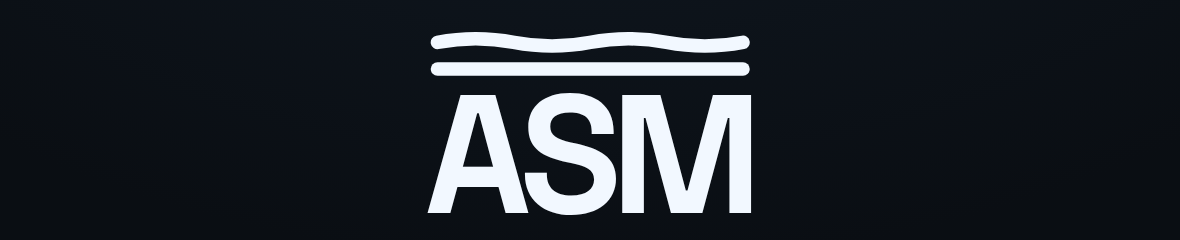
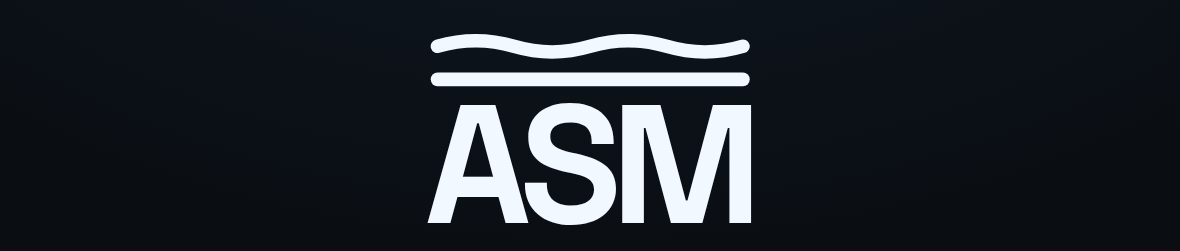
design(grade-lab): bigger wave amplitude, ink-gap stacking

diff --git a/design/grade-lab/lockup.js b/design/grade-lab/lockup.js
@@ -11,25 +11,25 @@
  *   - 横线 = 已经落定 → 落在基线以下（stack）。
  */
 
-// adv = 这一行到下一行的距离（cap height 的倍数）。
-// 波浪之间收得比“等号”略紧；等号两横比波浪更紧，像真的 ≅。
+// gapBelow = 这一行与它下面一行的**墨迹**间隙（cap height 的倍数）。
+// 量墨迹而不是量中心线：波浪加振幅时，它和下面那条线/字母的视觉间距才不会变。
 export const SYMBOLS = {
   APX: [
-    { kind: 'wave', adv: 0.245 },
+    { kind: 'wave', gapBelow: 0.1 },
     { kind: 'wave' },
   ],
   ASM: [
-    { kind: 'wave', adv: 0.225 },
+    { kind: 'wave', gapBelow: 0.07 },
     { kind: 'line' },
   ],
   CGR: [
-    { kind: 'wave', adv: 0.225 },
-    { kind: 'line', adv: 0.15 },
+    { kind: 'wave', gapBelow: 0.07 },
+    { kind: 'line', gapBelow: 0.035 },
     { kind: 'line' },
   ],
   IDN: [
-    { kind: 'line', adv: 0.15 },
-    { kind: 'line', adv: 0.15 },
+    { kind: 'line', gapBelow: 0.035 },
+    { kind: 'line', gapBelow: 0.035 },
     { kind: 'line' },
   ],
 };
@@ -78,8 +78,8 @@ export function renderLockup(host, opts) {
 
   // —— 2. 从字体里取网格 ——
   const stem = cap * 0.115; // 和 800 字重的字干接近
-  const amp = cap * 0.062; // 波纹振幅
-  const gap = cap * 0.16; // 符号的墨迹到字的距离
+  const amp = cap * 0.095; // 波纹振幅（够大才读得出是波浪，不是装饰线）
+  const gapToWord = cap * 0.16; // 最下面一行墨迹到 cap line 的距离
   const inset = stem * 0.75; // 视觉宽度：记号比字略窄，A / X 这类斜边才不会被记号压住
 
   const inkLeft = left + inset;
@@ -97,31 +97,31 @@ export function renderLockup(host, opts) {
   };
   const linePath = (y) => `M ${inkLeft} ${y} L ${inkRight} ${y}`;
 
-  // 每一行到下一行的距离，以及每一行的墨迹半高（gap 量的是墨迹到墨迹，不是中心线）
-  const advances = rows.map((row) => cap * (row.adv ?? 0.15));
+  // 每一行的墨迹半高
   const half = rows.map((row) => (row.kind === 'wave' ? amp + stem / 2 : stem / 2));
-  const stackHeight = advances.slice(0, -1).reduce((sum, v) => sum + v, 0);
+  const gapBelow = rows.map((row) => cap * (row.gapBelow ?? 0.05));
 
-  if (variant === 'above') {
-    // 整枚记号压在字的上方：最后一行的底边离 cap line 一个 gap，前面的行往上叠。
-    let y = top - gap - half[rows.length - 1] - stackHeight;
-    rows.forEach((row, index) => {
-      paths.push(row.kind === 'wave' ? wavePath(y) : linePath(y));
-      y += advances[index];
-    });
-  } else if (variant === 'below' || variant === 'stack') {
-    let y = baseline + gap + half[0];
-    rows.forEach((row, index) => {
-      paths.push(row.kind === 'wave' ? wavePath(y) : linePath(y));
-      y += advances[index];
-    });
-  } else {
-    // behind：行均匀铺在字高区间，作为背景层（对比用）
-    rows.forEach((row, index) => {
-      const y = top + (cap * index) / Math.max(1, rows.length - 1);
-      paths.push(row.kind === 'wave' ? wavePath(y) : linePath(y));
-    });
+  // 从下往上：最下面一行离字 gapToWord，其余按墨迹间隙叠上去。
+  const stackAbove = [];
+  stackAbove[rows.length - 1] = top - gapToWord - half[rows.length - 1];
+  for (let i = rows.length - 2; i >= 0; i -= 1) {
+    stackAbove[i] = stackAbove[i + 1] - half[i + 1] - gapBelow[i] - half[i];
   }
+
+  // 镜像：最上面一行离基线 gapToWord，其余往下叠。
+  const stackBelow = [];
+  stackBelow[0] = baseline + gapToWord + half[0];
+  for (let i = 1; i < rows.length; i += 1) {
+    stackBelow[i] = stackBelow[i - 1] + half[i - 1] + gapBelow[i - 1] + half[i];
+  }
+
+  const stacked = variant === 'above' || variant === 'below' || variant === 'stack';
+  const centers = variant === 'above' ? stackAbove : stackBelow;
+
+  rows.forEach((row, index) => {
+    const y = stacked ? centers[index] : top + (cap * index) / Math.max(1, rows.length - 1);
+    paths.push(row.kind === 'wave' ? wavePath(y) : linePath(y));
+  });
 
   for (const d of paths) {
     const path = document.createElementNS(SVG_NS, 'path');
@@ -135,11 +135,14 @@ export function renderLockup(host, opts) {
 
   // —— 3. 视口 ——
   const pad = cap * 0.24;
-  const above = variant === 'above';
-  const below = variant === 'below' || variant === 'stack';
-  const inkTop = rows.length ? top - gap - half[rows.length - 1] - stackHeight - half[0] : top;
-  const minY = above ? inkTop - pad : top - pad * 0.6;
-  const maxY = below ? baseline + gap + stackHeight + half[0] + half[rows.length - 1] + pad : baseline + pad;
+  const minY =
+    variant === 'above' ? stackAbove[0] - half[0] - pad : top - pad * 0.6;
+  const maxY =
+    variant === 'above'
+      ? baseline + pad
+      : variant === 'behind'
+        ? baseline + pad
+        : stackBelow[rows.length - 1] + half[rows.length - 1] + pad;
   const minX = left - pad;
   const maxX = right + pad;
   svg.setAttribute('viewBox', `${minX} ${minY} ${maxX - minX} ${maxY - minY}`);
@@ -159,6 +162,9 @@ export function renderLockup(host, opts) {
     };
     guide(top, 'rgba(156,200,255,.45)');
     guide(baseline, 'rgba(156,200,255,.45)');
-    guide(baseline + gap, 'rgba(198,242,78,.35)');
+    guide(
+      variant === 'above' ? top - gapToWord : baseline + gapToWord,
+      'rgba(198,242,78,.35)',
+    );
   }
 }

diff --git a/prototype/FUTURE.md b/prototype/FUTURE.md
@@ -68,7 +68,8 @@
   样张在 [`../design/grade-lab/`](../design/grade-lab/)：每个符号单独一页，符号是自绘 SVG，
   波纹逐级消失（`≈` 两波 → `≃` 一波一横 → `≅` 一波两横 → `≡` 三横），不依赖字体覆盖。
 - **锁版规则**：符号与字同宽（取字母实测包围盒，再收半个描边做视觉修正）、描边 = 字干
-  （cap height 的 11.5%）、记号底边离 cap line 0.16 cap（量墨迹，不量中心线）；
+  （cap height 的 11.5%）、记号底边离 cap line 0.16 cap；行距一律量**墨迹间隙**
+  （波浪间 10%、波浪到横线 5%、横线间 3.5%），波纹振幅 9.5% cap。
   默认摆法是「整枚记号压在字上方」。
 - 恰好 100% 记为 **`IDN+`**（`IDN` 覆盖 99–100%，`IDN+` 只在满分时出现）。
 - 字母词表待定（当前提案 `APX / ASM / CGR / IDN`）。

diff --git a/design/grade-lab/README.md b/design/grade-lab/README.md
@@ -30,7 +30,8 @@
 | --- | --- |
 | 同宽 | 符号左右边界 = 三个字母的包围盒（再收半个描边做视觉修正） |
 | 同粗 | 描边 = 字干粗细（≈ cap height 的 11.5%） |
-| 对齐 | 记号底边离 cap line 0.16 cap；行距按行类型给（等号比波浪更紧） |
+| 对齐 | 记号底边离 cap line 0.16 cap；行距按**墨迹间隙**给（波浪间 10%、波浪到横线 5%、横线间 3.5%） |
+| 振幅 | 波纹 9.5% cap：太小会读成装饰线，太大会压住字 |
 
 符号也是自绘 SVG：`≈` 两波 → `≃` 一波一横 → `≅` 一波两横 → `≡` 三横。
 波纹逐级消失，等于“误差在收敛”这件事本身。不依赖字体覆盖。
